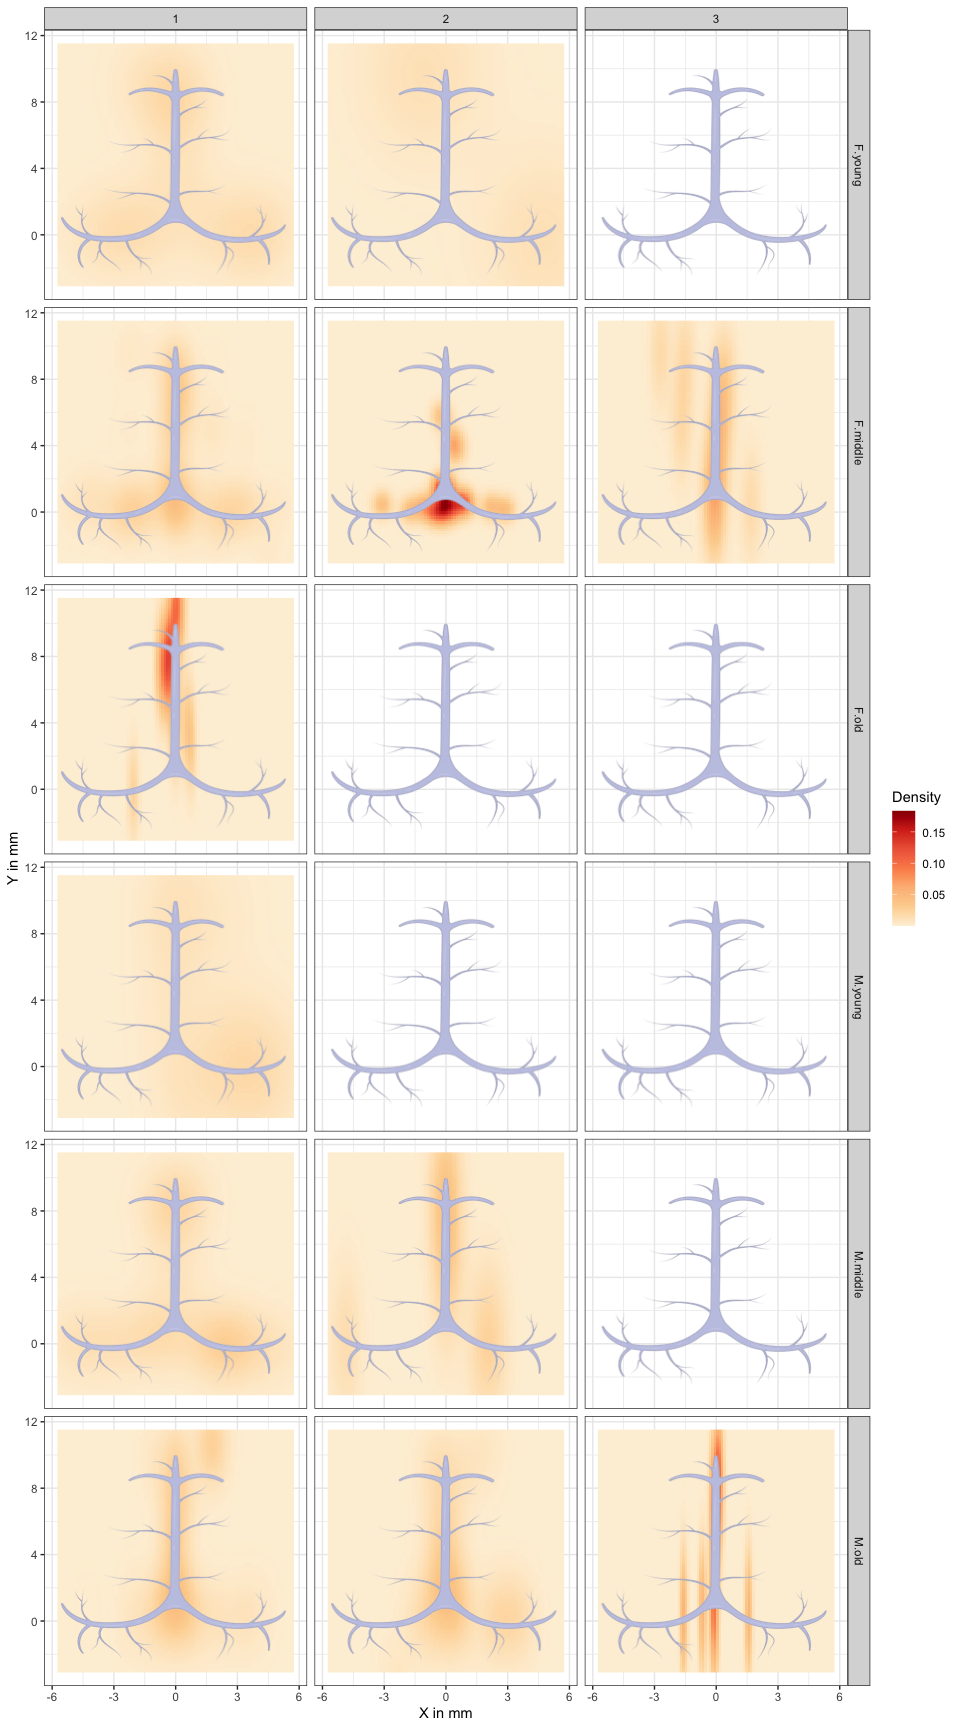
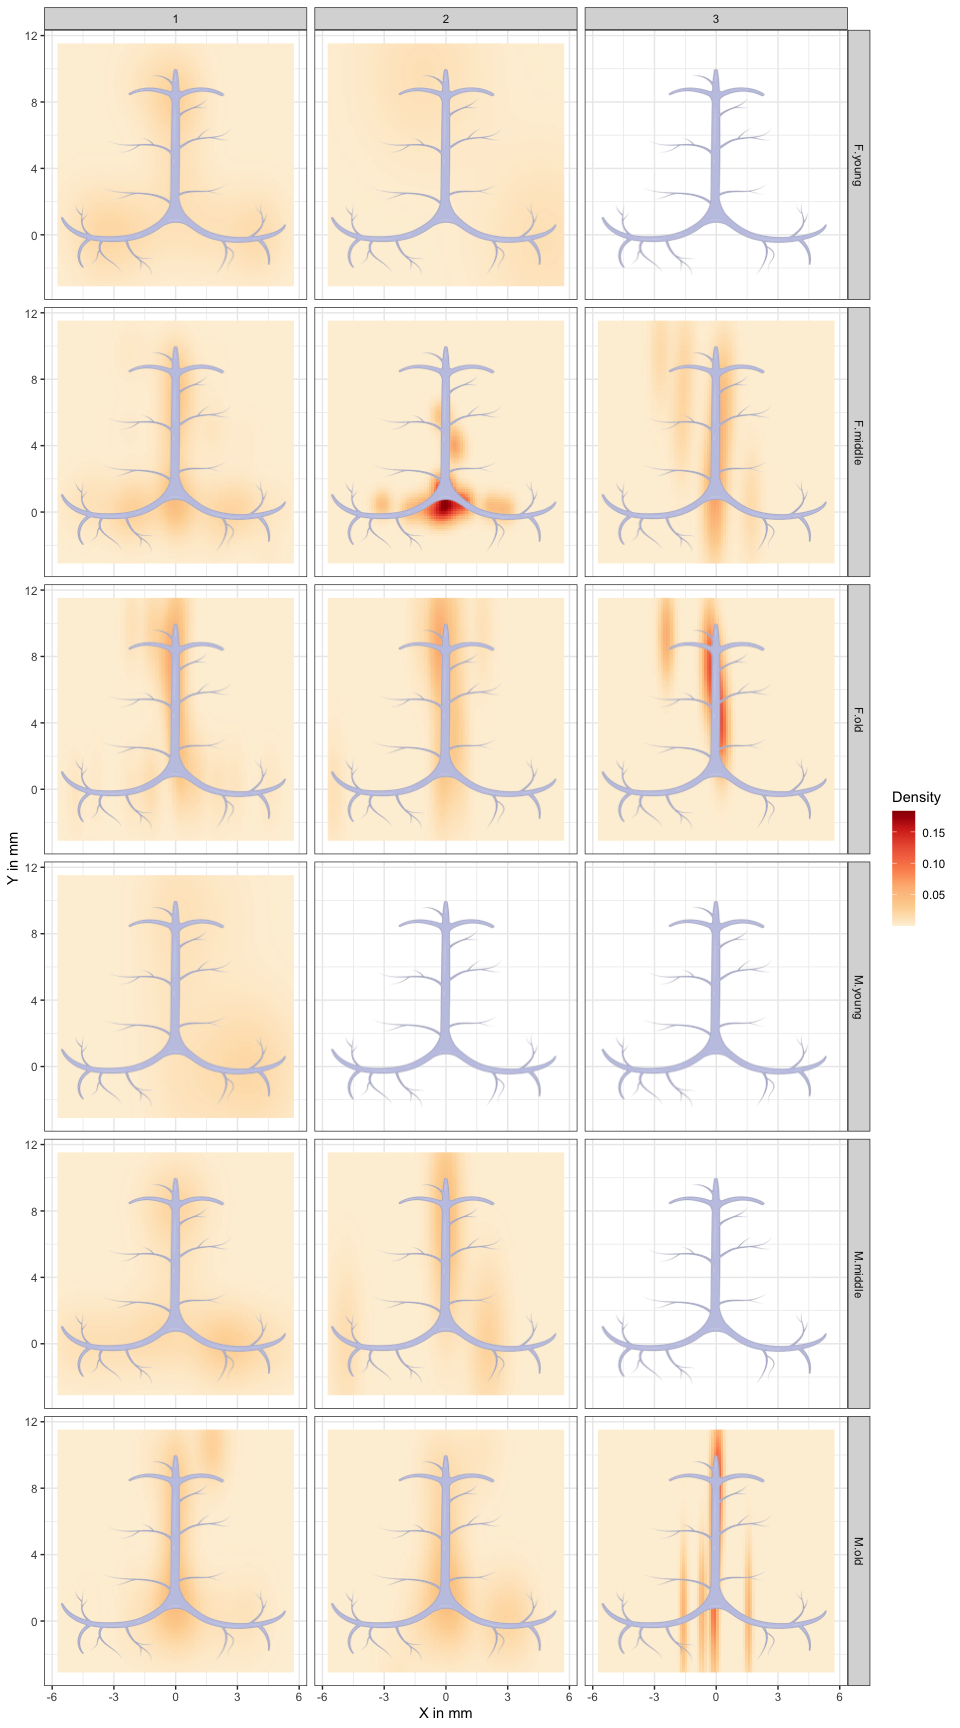
Add new structures

diff --git a/C57.md b/C57.md
@@ -20,7 +20,7 @@ density.
 
 ## Exploratory statistics
 
-The current analysis includes data on 600 lymphatic structures from 39
+The current analysis includes data on 707 lymphatic structures from 45
 mice, belonging to 1 strains, 3 age categories and 2 genders, for a
 total of 6 groups ([Table 1](#tbl-stats)).
 
@@ -55,12 +55,12 @@ sinus location, respectively.</caption>
 <tr class="odd">
 <td style="text-align: left;">F</td>
 <td style="text-align: left;">young</td>
-<td style="text-align: right;">7</td>
-<td style="text-align: right;">60</td>
-<td style="text-align: right;">9.4</td>
-<td style="text-align: right;">4.8</td>
-<td style="text-align: left;">58-2-0</td>
-<td style="text-align: left;">18-27-15</td>
+<td style="text-align: right;">8</td>
+<td style="text-align: right;">76</td>
+<td style="text-align: right;">10.0</td>
+<td style="text-align: right;">4.7</td>
+<td style="text-align: left;">74-2-0</td>
+<td style="text-align: left;">20-32-24</td>
 </tr>
 <tr class="even">
 <td style="text-align: left;">F</td>
@@ -75,12 +75,12 @@ sinus location, respectively.</caption>
 <tr class="odd">
 <td style="text-align: left;">F</td>
 <td style="text-align: left;">old</td>
-<td style="text-align: right;">3</td>
-<td style="text-align: right;">20</td>
+<td style="text-align: right;">8</td>
+<td style="text-align: right;">111</td>
 <td style="text-align: right;">12.9</td>
-<td style="text-align: right;">7.2</td>
-<td style="text-align: left;">18-1-1</td>
-<td style="text-align: left;">0-19-1</td>
+<td style="text-align: right;">5.9</td>
+<td style="text-align: left;">87-18-6</td>
+<td style="text-align: left;">13-87-11</td>
 </tr>
 <tr class="even">
 <td style="text-align: left;">M</td>

diff --git a/APP.md b/APP.md
@@ -20,7 +20,7 @@ density.
 
 ## Exploratory statistics
 
-The current analysis includes data on 497 lymphatic structures from 37
+The current analysis includes data on 515 lymphatic structures from 39
 mice, belonging to 1 strains, 3 age categories and 2 genders, for a
 total of 6 groups ([Table 1](#tbl-stats)).
 
@@ -55,12 +55,12 @@ sinus location, respectively.</caption>
 <tr class="odd">
 <td style="text-align: left;">F</td>
 <td style="text-align: left;">young</td>
-<td style="text-align: right;">6</td>
-<td style="text-align: right;">99</td>
+<td style="text-align: right;">7</td>
+<td style="text-align: right;">106</td>
 <td style="text-align: right;">9.2</td>
-<td style="text-align: right;">4.6</td>
-<td style="text-align: left;">97-1-1</td>
-<td style="text-align: left;">25-46-28</td>
+<td style="text-align: right;">4.4</td>
+<td style="text-align: left;">104-1-1</td>
+<td style="text-align: left;">28-48-30</td>
 </tr>
 <tr class="even">
 <td style="text-align: left;">F</td>
@@ -105,12 +105,12 @@ sinus location, respectively.</caption>
 <tr class="even">
 <td style="text-align: left;">M</td>
 <td style="text-align: left;">old</td>
-<td style="text-align: right;">6</td>
-<td style="text-align: right;">45</td>
-<td style="text-align: right;">15.1</td>
-<td style="text-align: right;">5.7</td>
-<td style="text-align: left;">31-6-8</td>
-<td style="text-align: left;">4-34-7</td>
+<td style="text-align: right;">7</td>
+<td style="text-align: right;">56</td>
+<td style="text-align: right;">15.3</td>
+<td style="text-align: right;">6.2</td>
+<td style="text-align: left;">41-7-8</td>
+<td style="text-align: left;">6-43-7</td>
 </tr>
 </tbody>
 </table>
